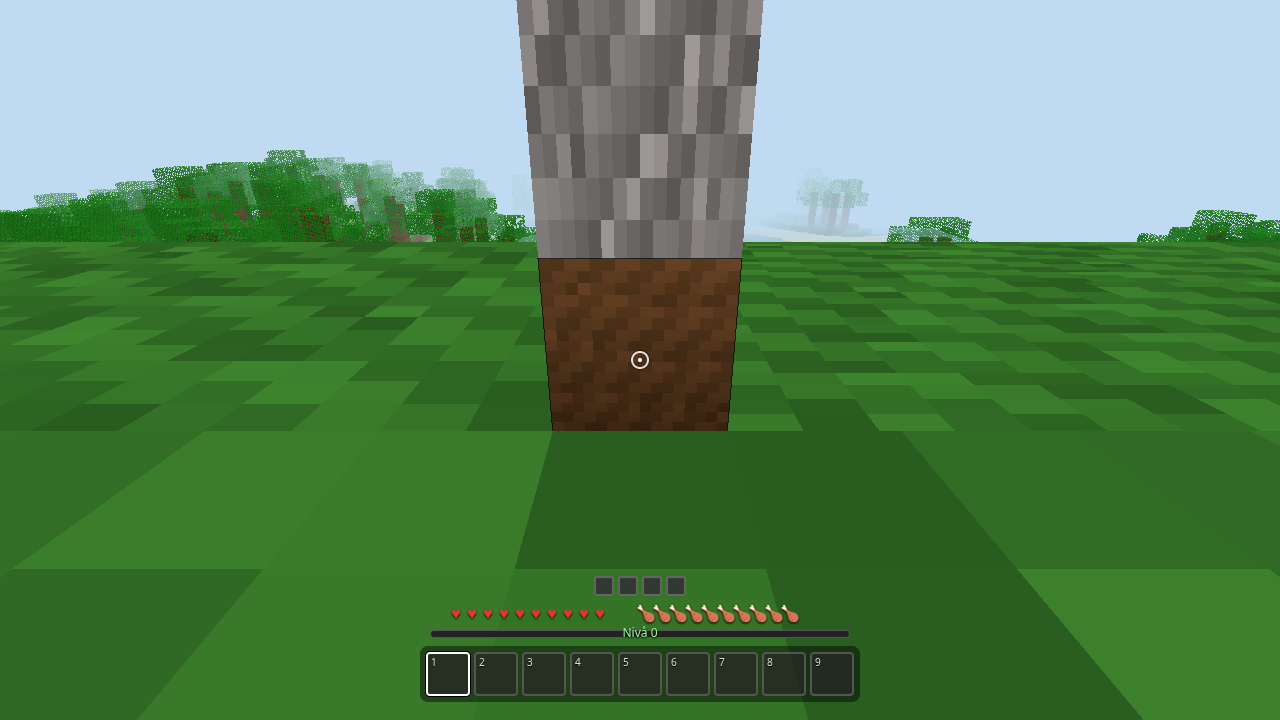
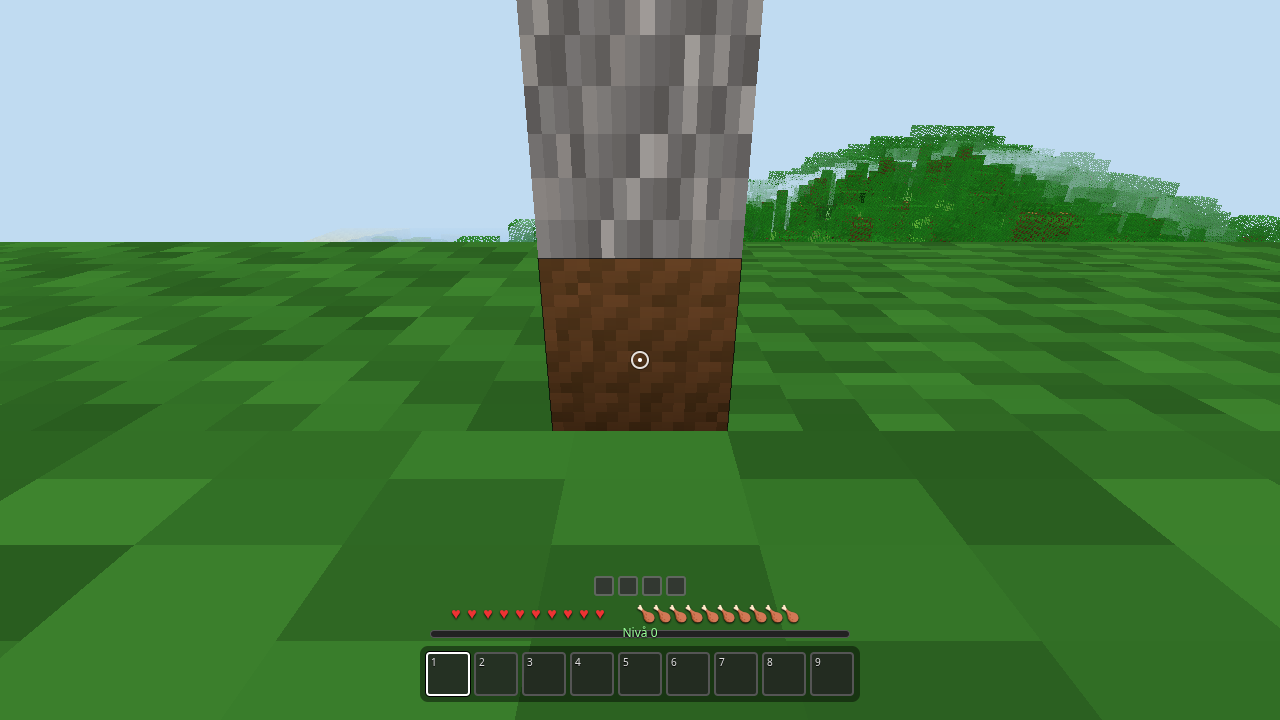
it17: MC '#' crop model + wheat textures; sapling fuel; CORE-PLAYTEST section O

diff --git a/src/world/mesher.ts b/src/world/mesher.ts
@@ -199,6 +199,34 @@ function emitCross(a: Arrays, wx: number, y: number, wz: number, tile: number, l
   }
 }
 
+/** Double-sided vertical quad from (x0,z0) to (x1,z1), height h (plants). */
+function emitPlane(a: Arrays, wx: number, y: number, wz: number, x0: number, z0: number, x1: number, z1: number, h: number, tile: number, col: number): void {
+  const uv = tileUV(tile);
+  for (const side of [1, -1]) {
+    const p = side === 1
+      ? [[x0, 0, z0], [x1, 0, z1], [x1, h, z1], [x0, h, z0]]
+      : [[x1, 0, z1], [x0, 0, z0], [x0, h, z0], [x1, h, z1]];
+    for (const c of p) {
+      a.positions.push(wx + c[0], y + c[1], wz + c[2]);
+      a.normals.push(0, 1, 0);
+      a.colors.push(col, col, col, 1);
+    }
+    a.uvs.push(uv.u0, uv.v1, uv.u1, uv.v1, uv.u1, uv.v0, uv.u0, uv.v0);
+    const vb = a.vBase;
+    a.indices.push(vb, vb + 1, vb + 2, vb, vb + 2, vb + 3);
+    a.vBase += 4;
+  }
+}
+
+/** MC crop model: '#' of four planes at 1/4 and 3/4. */
+function emitHash(a: Arrays, wx: number, y: number, wz: number, tile: number, light: number, h: number): void {
+  const col = Math.min(1.5, lightCurve(light) * 0.95);
+  for (const t of [0.25, 0.75]) {
+    emitPlane(a, wx, y, wz, t, 0, t, 1, h, tile, col);
+    emitPlane(a, wx, y, wz, 0, t, 1, t, h, tile, col);
+  }
+}
+
 /** Greedy mesh opaque full cubes; naive mesh for specials/transparent. */
 function buildMesh(
   chunk: Chunk,
@@ -226,6 +254,12 @@ function buildMesh(
         const wx = ox + lx;
         const wz = oz + lz;
         if (isCrossPlant(id)) { emitCross(a, wx, y, wz, def.tiles.side, getLight(wx, y, wz)); continue; }
+        if (id === BlockId.Crop) {
+          // MC crop '#' model: 4 vertical planes, height grows with the stage (was a translucent box)
+          const stage = chunk.waterLevel[chunk.index(lx, y, lz)] || 0;
+          emitHash(a, wx, y, wz, stage >= 7 ? 38 : 37, getLight(wx, y, wz), 0.3 + stage * 0.1);
+          continue;
+        }
         const wLevel = id === BlockId.Water || id === BlockId.Lava || id === BlockId.Crop
           ? (chunk.waterLevel[chunk.index(lx, y, lz)] || (id === BlockId.Crop ? 0 : 7)) : 7;
         let hTop = id === BlockId.Water || id === BlockId.Lava ? Math.max(0.125, wLevel / 7)

diff --git a/src/blocks/textures.ts b/src/blocks/textures.ts
@@ -157,15 +157,19 @@ export function createAtlasCanvas(): HTMLCanvasElement {
     return ly < 3 ? [v + 20, v - 10, 20, 255] : [v, v * 0.7, 25, 255];
   });
   // 37 crop young
+  // it17: several stalks across the tile (drawn on MC-style '#' planes)
   fillTile(d, 37, (lx, ly) => {
-    if (ly > 10 && Math.abs(lx - 8) < 2) return [40, 120, 30, 255];
-    if (ly > 6 && Math.abs(lx - 8) < 1) return [50, 140, 40, 255];
+    const top = 3 + ((lx * 7) % 5);
+    if (lx % 3 === 1 && ly >= top) return [45 + (ly * 3) % 20, 125 + (lx * 5) % 30, 35, 255];
+    if (lx % 3 === 2 && ly >= top + 3 && ly % 4 === 0) return [70, 150, 45, 255];
     return [0, 0, 0, 0];
   });
   // 38 crop ripe
   fillTile(d, 38, (lx, ly) => {
-    if (ly > 4 && Math.abs(lx - 8) < 3) return [200, 180, 40, 255];
-    if (ly > 10 && Math.abs(lx - 8) < 2) return [80, 140, 30, 255];
+    const top = 1 + ((lx * 7) % 4);
+    if (lx % 3 === 1 && ly >= top && ly < top + 6) return [205 + (ly * 7) % 30, 175 + (lx * 3) % 25, 55, 255]; // ear
+    if (lx % 3 === 1 && ly >= top + 6) return [150, 140, 55, 255]; // stalk
+    if (lx % 3 === 2 && ly >= top + 1 && ly < top + 5 && ly % 2 === 0) return [215, 190, 70, 255]; // awns
     return [0, 0, 0, 0];
   });
   // 39 enchant table

diff --git a/scripts/it17-verify.ts b/scripts/it17-verify.ts
@@ -415,6 +415,7 @@ async function main() {
     await page.evaluate(() => {
       const bv = (window as any).__bv;
       bv.world.setBlock(4, 45, 16, 22); bv.world.setBlock(4, 46, 16, 23); bv.world.setMeta(4, 46, 16, 7);
+      for (let s = 0; s < 4; s++) { bv.world.setBlock(2 - s, 45, 16, 22); bv.world.setBlock(2 - s, 46, 16, 23); bv.world.setMeta(2 - s, 46, 16, s * 2); }
       // raised farmland (side exposed) with a ripe crop on it
       bv.world.setBlock(6, 46, 16, 22); bv.world.setBlock(6, 47, 16, 23); bv.world.setMeta(6, 47, 16, 7);
       bv.forceRemeshAround?.();

diff --git a/src/items/types.ts b/src/items/types.ts
@@ -136,7 +136,7 @@ export const ITEMS: Record<number, ItemDef> = {
   [116]: tool(116, 'Trekrafse', 'hoe', 'wood', 60, 1, 1, 44),
   [117]: tool(117, 'Jernkrafse', 'hoe', 'iron', 250, 1, 1, 44),
   [49]: blk(49, 'Grus', 73, 49),
-  [76]: blk(76, 'Spire', 75, 76, { fuel: 100 }),
+  [76]: blk(76, 'Spire', 75, 76, { fuel: 50 }), // MC: ⅓ of planks' burn time
   [77]: { id: 77, name: 'Flint', stackable: true, maxStack: 64, iconTile: 74 },
 };
 

diff --git a/docs/CORE-PLAYTEST.md b/docs/CORE-PLAYTEST.md
@@ -144,6 +144,19 @@ Last run: 2026-10-30 22:43–22:50 CET · it15 (55 PASS / 0 FAIL, I3/I4 now real
 | N8 | Dark caves | Light 0 is near-black; torch-lit areas stay bright | PASS | X6 screenshot + vitest light curve |
 | N6 | Daylight | Noon: blocks show full texture colour, sides shaded only by MC face shading (not ~half-dark); night stays dark | PASS | it16-00a/00c screenshots |
 
+## O. Plants, gravel, targeting (it17, `scripts/it17-verify.ts`, real input)
+| # | Check | Minecraft-expected | Status | Notes |
+|---|--------|-------------------|--------|-------|
+| O1 | Tall grass | Tufts generate on grass (plains/forest, not snow/desert); X-shaped, no collision; LMB breaks instantly; 12.5 % seeds | PASS | N0, P1 + vitest |
+| O2 | Replaceable | RMB with a block aimed at tall grass places into that cell (not on top) | PASS | P2 |
+| O3 | Grass block drop | Breaking a grass block always gives dirt (was: 12 % seeds *instead* of dirt) | PASS | vitest |
+| O4 | Targeting small blocks | Torches, crops, plants, ladders, red dust can be aimed at and broken with LMB (was: ray went through them since it1 — torches couldn't be removed) | PASS | P3, P4a |
+| O5 | Pop off | Breaking the block under a crop/sapling/tall grass/torch pops it as an item (crop: wheat+seeds if ripe) | PASS | P4b |
+| O6 | Gravel | Falls like sand; 10 % flint, else gravel; generated in stone blobs and ocean floors | PASS | G1, G2 + vitest |
+| O7 | Sapling | Leaves drop a sapling 5 %; RMB plants only on grass/dirt/farmland; no collision; grows into an oak (needs light ≥ 9 and room; grass under it turns to dirt) | PASS | S1–S3 + vitest |
+| O8 | Leaf decay saved | Chop a tree, save & quit at once, reload → the leaves still decay | PASS | L3 + vitest |
+| O9 | Jump tap | A quick Space tap (even shorter than a frame / just before landing) jumps | PASS | J 5/5, core B2 |
+
 ## Method rules
 1. **Real input:** synthesized keyboard/mouse via pointer lock. `__bv` may set up a scenario only — never perform the action under test.
 2. Log every bug and every deviation from Minecraft.
